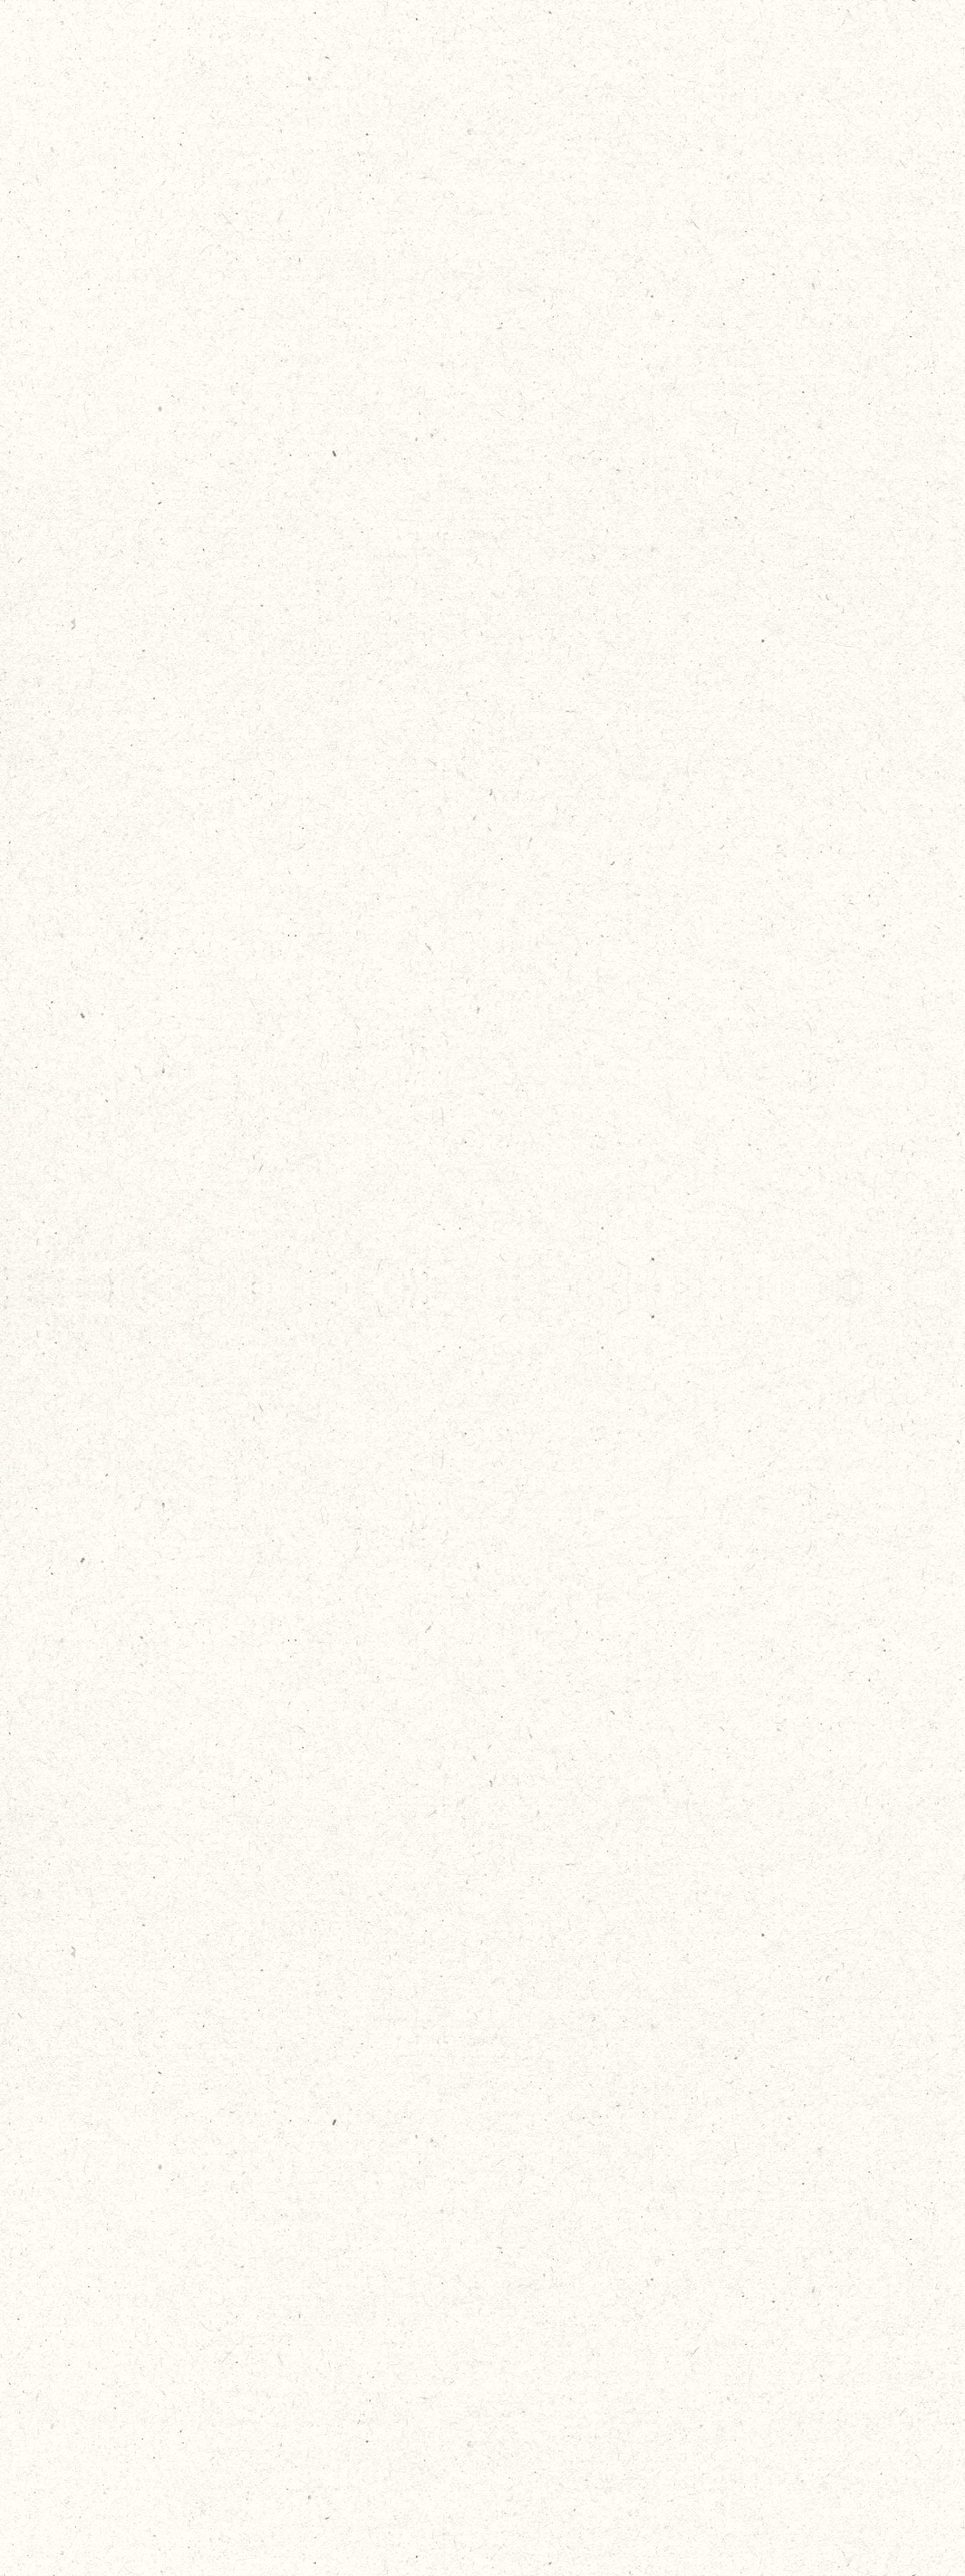
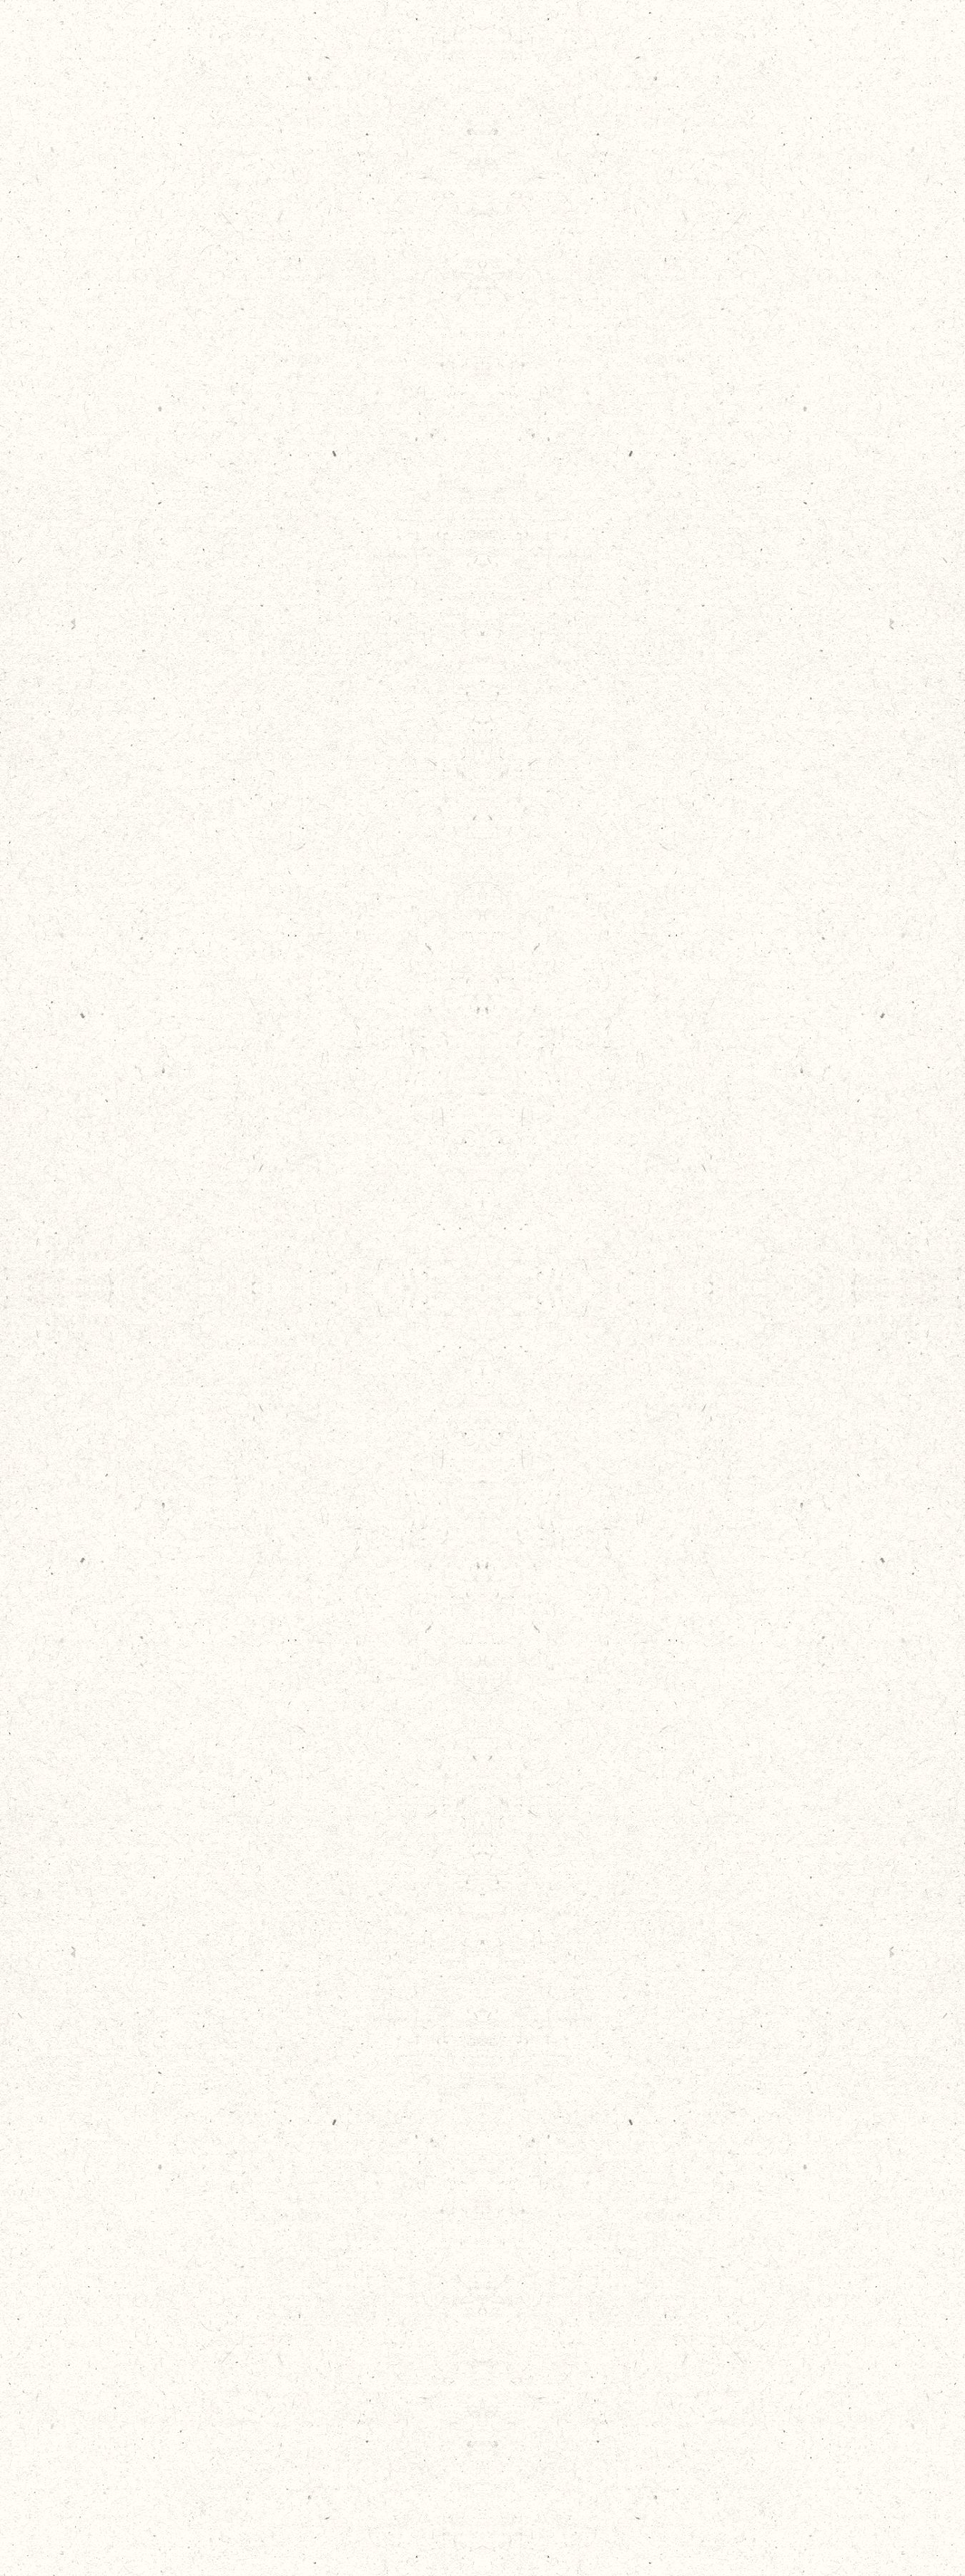
paper: sharper grain, jet-black ink, the mark prints too
The parchment tile now covers 21rem instead of 42rem at the same pixel
size, mirrored both ways for a seamless repeat, so its resolution per
rem doubles and survives zooming in. Ink darkens from warm brown to
jet black; the body filter gains more wobble, edge fade, and coverage
mottle so paragraphs read as printed like the mono labels. The asterisk
divider joins the filtered set, and the JK mark bakes the same ink
distortion into its sprite at load, so it never flashes a clean frame.

diff --git a/src/app/page.tsx b/src/app/page.tsx
@@ -166,10 +166,10 @@ export default function Home() {
             seed="11"
             result="warp"
           />
-          <feDisplacementMap in="SourceGraphic" in2="warp" scale="1" />
-          <feGaussianBlur stdDeviation="0.35" />
+          <feDisplacementMap in="SourceGraphic" in2="warp" scale="1.6" />
+          <feGaussianBlur stdDeviation="0.45" />
           <feComponentTransfer result="inked">
-            <feFuncA type="linear" slope="3.5" intercept="-0.5" />
+            <feFuncA type="linear" slope="2.6" intercept="-0.38" />
           </feComponentTransfer>
           <feTurbulence
             type="fractalNoise"
@@ -178,7 +178,33 @@ export default function Home() {
             seed="29"
           />
           <feComponentTransfer result="press">
-            <feFuncA type="linear" slope="0.35" intercept="0.72" />
+            <feFuncA type="linear" slope="0.5" intercept="0.62" />
+          </feComponentTransfer>
+          <feComposite in="inked" in2="press" operator="in" />
+        </filter>
+        {/* The #ink-bleed recipe scaled 3x: the JK mark bakes it in at its
+            1200px source size before drawing at roughly a third of that. */}
+        <filter id="ink-mark" x="-4%" y="-4%" width="108%" height="108%">
+          <feTurbulence
+            type="fractalNoise"
+            baseFrequency="0.073"
+            numOctaves="2"
+            seed="7"
+            result="warp"
+          />
+          <feDisplacementMap in="SourceGraphic" in2="warp" scale="5.4" />
+          <feGaussianBlur stdDeviation="1.5" />
+          <feComponentTransfer result="inked">
+            <feFuncA type="linear" slope="3" intercept="-0.45" />
+          </feComponentTransfer>
+          <feTurbulence
+            type="fractalNoise"
+            baseFrequency="0.03"
+            numOctaves="3"
+            seed="21"
+          />
+          <feComponentTransfer result="press">
+            <feFuncA type="linear" slope="0.5" intercept="0.62" />
           </feComponentTransfer>
           <feComposite in="inked" in2="press" operator="in" />
         </filter>

diff --git a/src/app/globals.css b/src/app/globals.css
@@ -4,7 +4,7 @@
 :root {
   color-scheme: light;
   --paper: #f2e8d5;
-  --ink: #2a2318;
+  --ink: #16120c;
   --ink-muted: #7a6f5a;
   --line: #d8cbae;
   --seal: #8e2b23;
@@ -30,8 +30,8 @@ body {
 /* Paper grain on the text column only; the page around it stays flat
    --paper. Josh's Unsplash scan (kiwihug qv05FvdE26k), desaturated, warmed
    and lifted to mean 251/255 so the multiply blend keeps the column within
-   2% of --paper. Mirrored vertically in the file so the repeat is seamless;
-   the tile is 1350px wide so retina shows it at native resolution. */
+   2% of --paper. The tile is mirrored both ways in the file so the repeat
+   is seamless, and covers 21rem at 1350px so it stays sharp zoomed in. */
 /* No outline: a sheet's edge is the shadow it casts. A tight warm pass
    reads as the paper's edge, a wide faint one as ambient lift. */
 main[data-paper] {
@@ -56,14 +56,15 @@ main[data-paper]::after {
   z-index: 1;
   pointer-events: none;
   background: url("/parchment.jpg") repeat;
-  background-size: 42rem 112rem;
+  background-size: 21rem 56rem;
   mix-blend-mode: multiply;
 }
 main[data-paper] h1,
 main[data-paper] .font-mono {
   filter: url(#ink-bleed);
 }
-main[data-paper] :is(p, li, button):not(.font-mono):not(.font-mono *) {
+main[data-paper] :is(p, li, button):not(.font-mono):not(.font-mono *),
+main[data-paper] > div:not(:has(svg)) {
   filter: url(#ink-page);
 }
 
@@ -119,7 +120,8 @@ a {
   }
   main[data-paper] h1,
   main[data-paper] .font-mono,
-  main[data-paper] :is(p, li, button) {
+  main[data-paper] :is(p, li, button),
+  main[data-paper] > div {
     filter: none;
   }
 }

diff --git a/src/components/globe.tsx b/src/components/globe.tsx
@@ -5,15 +5,20 @@ import { STAGE_HALF, createGlobe } from "./globe/globe-core.js";
 import { MARK_GEOMETRY } from "./globe/mark-geometry.js";
 import { drawGlobeScene, setInk, setMark } from "./globe/globe-draw.js";
 
-const INK = "42, 35, 24";
+const INK = "22, 18, 12";
 
+// Bakes the page's ink distortion into the mark once at load, so the JK
+// has always been printed; browsers without canvas url() filters just
+// keep the clean mark.
 function tintedMark(image: HTMLImageElement, color: string) {
   const off = document.createElement("canvas");
   off.width = image.naturalWidth;
   off.height = image.naturalHeight;
   const ctx = off.getContext("2d");
   if (ctx) {
+    ctx.filter = "url(#ink-mark)";
     ctx.drawImage(image, 0, 0);
+    ctx.filter = "none";
     ctx.globalCompositeOperation = "source-in";
     ctx.fillStyle = color;
     ctx.fillRect(0, 0, off.width, off.height);
